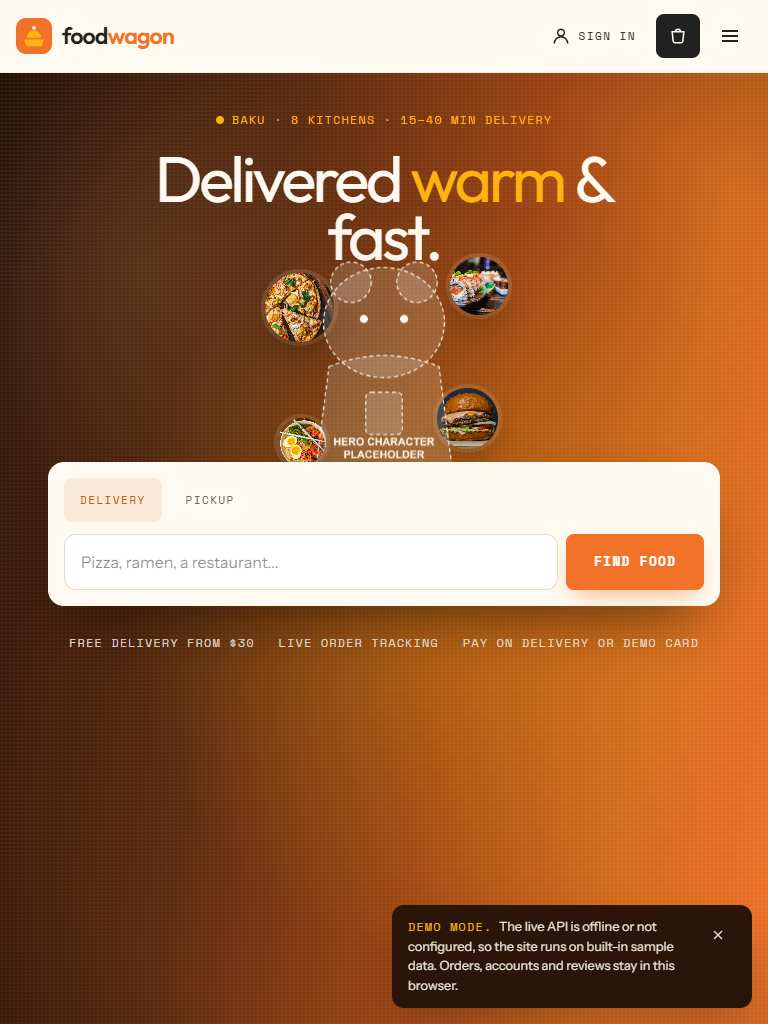
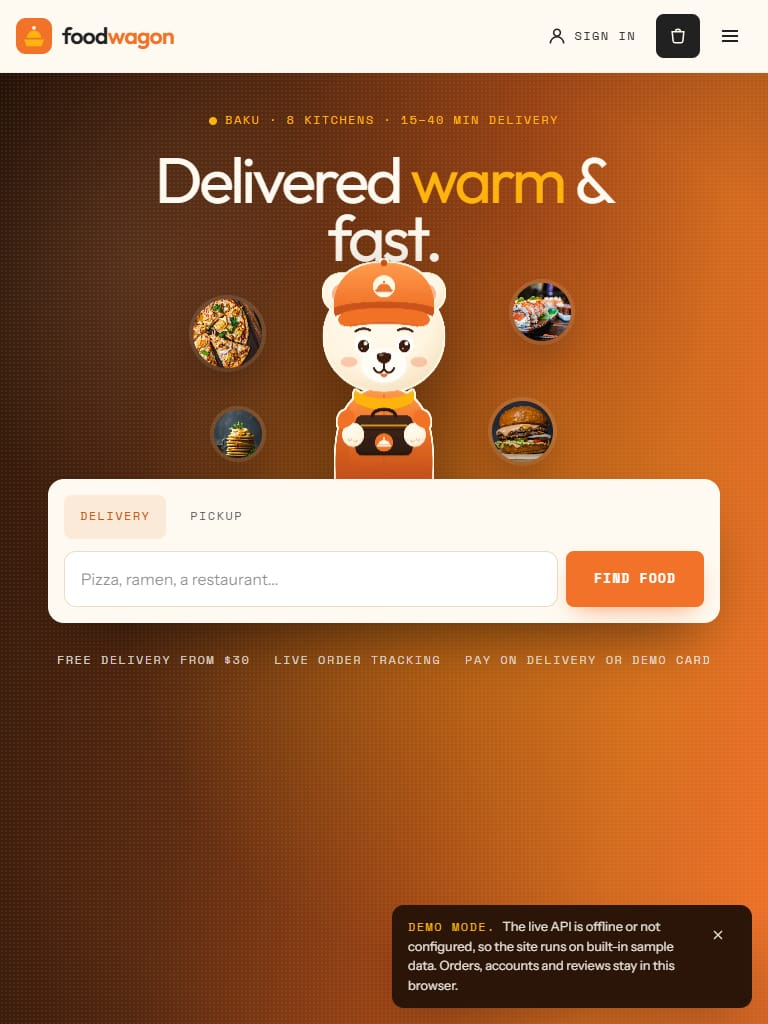
Hero: Food Wagon's courier bear replaces the stand-in image
- Original mascot (cream bear, orange cap and jacket with the dome badge, dark
  delivery bag), drawn as SVG in tools/hero-mascot.cjs and rendered to
  hero/character.webp (still, 1200x1500) and hero/character-sprite.webp
  (9 frames, 800x1000 each, gaze left to right).
- The still stays the image in the static copy of the hero, so it is the first
  paint and what shows without JavaScript, on touch-only screens and under
  prefers-reduced-motion. The sprite sheet is fetched after mount and laid over
  the still once decoded: no layout shift, no flash.
- Cream rim around the silhouette keeps the orange cap and jacket apart from
  the orange side of the backdrop. Only the head moves between frames.
- Stage resized and moved below the headline; the whole bag stays above the
  search card, which now hides plain jacket only. Food chips moved outward and
  their drift scales with the viewport so they never cover the face.
- README, CREDITS, hero screenshots and og-image regenerated.

Admin panel: checked, it already uses the site palette (cream background,
white cards, orange primary); no change.

diff --git a/frontend/index.html b/frontend/index.html
@@ -76,7 +76,7 @@
 
     <main id="main">
       <!-- Static copy of <Hero /> (src/components/site/hero.tsx): first paint already matches the React render, so nothing shifts when it mounts. Keep in sync. -->
-      <div id="hero-root"><section class="hero" aria-labelledby="hero-title" data-state="idle"><div class="hero__bg" aria-hidden="true"></div><div class="hero__grain" aria-hidden="true"></div><div class="container-x relative flex flex-col items-center pt-[clamp(28px,5vw,64px)] pb-[clamp(40px,5vw,72px)] text-center"><p class="mono flex items-center gap-2 text-secondary"><span class="inline-block size-2 rounded-full bg-secondary" aria-hidden="true"></span>Baku · 8 kitchens · 15–40 min delivery</p><h1 id="hero-title" class="display hero__title relative z-0 mt-5 max-w-[7.87em]"><span class="sr-only">Food Wagon, food delivery in Baku: </span>Delivered <em>warm</em> &amp; fast.</h1><div class="hero__stage relative z-10 -mt-[clamp(20px,4vw,72px)] w-[clamp(220px,25vw,400px)]"><span class="hero__chip hidden sm:block left-[-4%] top-[14%] size-[clamp(64px,9vw,132px)]" aria-hidden="true" style="--d: 46;"><img alt="" width="132" height="132" loading="eager" src="images/pizza.webp"></span><span class="hero__chip hidden sm:block right-[-6%] top-[8%] size-[clamp(56px,7.5vw,112px)]" aria-hidden="true" style="--d: 64;"><img alt="" width="132" height="132" loading="eager" src="images/sushi.webp"></span><span class="hero__chip hidden sm:block right-[-2%] bottom-[22%] size-[clamp(60px,8vw,120px)]" aria-hidden="true" style="--d: 30;"><img alt="" width="132" height="132" loading="eager" src="images/burger.webp"></span><span class="hero__chip hidden sm:block left-[2%] bottom-[16%] size-[clamp(48px,6vw,92px)]" aria-hidden="true" style="--d: 82;"><img alt="" width="132" height="132" loading="eager" src="images/pancakes.webp"></span><div class="hero__float"><div class="hero__character aspect-[4/5]"><img alt="A steaming bowl of shrimp ramen, ready for delivery" width="1200" height="1500" fetchpriority="high" class="size-full object-contain" src="hero/character.webp"></div></div></div><form action="restaurants.html" role="search" aria-label="Find food" class="relative z-20 -mt-[clamp(48px,6vw,96px)] w-full max-w-2xl rounded-2xl bg-background p-3 text-left text-foreground shadow-[0_30px_60px_-24px_rgba(20,8,2,.65)] sm:p-4"><div class="mb-3 flex gap-2" role="group" aria-label="Order type"><button type="button" aria-pressed="true" class="mono min-h-11 rounded-lg px-4 text-[0.75rem] transition-colors bg-primary/12 text-primary-strong">Delivery</button><button type="button" aria-pressed="false" class="mono min-h-11 rounded-lg px-4 text-[0.75rem] transition-colors text-muted-foreground hover:bg-foreground/5">Pickup</button></div><div class="flex flex-col gap-2 sm:flex-row"><label for="hero-q" class="sr-only">What are you craving?</label><input id="hero-q" name="q" placeholder="Pizza, ramen, a restaurant..." autocomplete="off" class="min-h-14 flex-1 rounded-xl border border-border bg-card px-4 text-base focus:border-primary focus:outline-none" type="search" value=""><button type="submit" class="inline-flex items-center justify-center gap-2 rounded-lg font-mono font-bold uppercase tracking-[0.1em] whitespace-nowrap no-underline transition-[background,color,border-color,transform,box-shadow] duration-300 ease-[var(--ease-expo)] active:translate-y-px disabled:pointer-events-none disabled:opacity-50 cursor-pointer bg-primary text-white hover:bg-primary-strong shadow-[0_10px_24px_-10px_rgba(241,114,40,.7)] min-h-14 px-7 text-[0.8rem]">Find food</button></div></form><ul class="mono mt-7 flex flex-wrap justify-center gap-x-6 gap-y-2 text-background/85"><li>Free delivery from $30</li><li>Live order tracking</li><li>Pay on delivery or demo card</li></ul></div></section></div>
+      <div id="hero-root"><section class="hero" aria-labelledby="hero-title" data-state="idle"><div class="hero__bg" aria-hidden="true"></div><div class="hero__grain" aria-hidden="true"></div><div class="container-x relative flex flex-col items-center pt-[clamp(28px,5vw,64px)] pb-[clamp(40px,5vw,72px)] text-center"><p class="mono flex items-center gap-2 text-secondary"><span class="inline-block size-2 rounded-full bg-secondary" aria-hidden="true"></span>Baku · 8 kitchens · 15–40 min delivery</p><h1 id="hero-title" class="display hero__title relative z-0 mt-5 max-w-[7.87em]"><span class="sr-only">Food Wagon, food delivery in Baku: </span>Delivered <em>warm</em> &amp; fast.</h1><div class="hero__stage relative z-10 -mt-[clamp(2px,0.6vw,8px)] w-[clamp(212px,22.5vw,380px)]"><span class="hero__chip hidden sm:block left-[-40%] top-[14%] size-[clamp(64px,9vw,132px)]" aria-hidden="true" style="--d: 46;"><img alt="" width="132" height="132" loading="eager" src="images/pizza.webp"></span><span class="hero__chip hidden sm:block right-[-38%] top-[8%] size-[clamp(56px,7.5vw,112px)]" aria-hidden="true" style="--d: 64;"><img alt="" width="132" height="132" loading="eager" src="images/sushi.webp"></span><span class="hero__chip hidden sm:block right-[-30%] bottom-[24%] size-[clamp(60px,8vw,120px)]" aria-hidden="true" style="--d: 30;"><img alt="" width="132" height="132" loading="eager" src="images/burger.webp"></span><span class="hero__chip hidden sm:block left-[-30%] bottom-[26%] size-[clamp(48px,6vw,92px)]" aria-hidden="true" style="--d: 82;"><img alt="" width="132" height="132" loading="eager" src="images/pancakes.webp"></span><div class="hero__float"><div class="hero__character aspect-[4/5]"><img alt="Food Wagon&#x27;s courier bear holding a delivery bag" width="1200" height="1500" fetchpriority="high" class="size-full object-contain" src="hero/character.webp"></div></div></div><form action="restaurants.html" role="search" aria-label="Find food" class="relative z-20 -mt-[clamp(48px,6vw,96px)] w-full max-w-2xl rounded-2xl bg-background p-3 text-left text-foreground shadow-[0_30px_60px_-24px_rgba(20,8,2,.65)] sm:p-4"><div class="mb-3 flex gap-2" role="group" aria-label="Order type"><button type="button" aria-pressed="true" class="mono min-h-11 rounded-lg px-4 text-[0.75rem] transition-colors bg-primary/12 text-primary-strong">Delivery</button><button type="button" aria-pressed="false" class="mono min-h-11 rounded-lg px-4 text-[0.75rem] transition-colors text-muted-foreground hover:bg-foreground/5">Pickup</button></div><div class="flex flex-col gap-2 sm:flex-row"><label for="hero-q" class="sr-only">What are you craving?</label><input id="hero-q" name="q" placeholder="Pizza, ramen, a restaurant..." autocomplete="off" class="min-h-14 flex-1 rounded-xl border border-border bg-card px-4 text-base focus:border-primary focus:outline-none" type="search" value=""><button type="submit" class="inline-flex items-center justify-center gap-2 rounded-lg font-mono font-bold uppercase tracking-[0.1em] whitespace-nowrap no-underline transition-[background,color,border-color,transform,box-shadow] duration-300 ease-[var(--ease-expo)] active:translate-y-px disabled:pointer-events-none disabled:opacity-50 cursor-pointer bg-primary text-white hover:bg-primary-strong shadow-[0_10px_24px_-10px_rgba(241,114,40,.7)] min-h-14 px-7 text-[0.8rem]">Find food</button></div></form><ul class="mono mt-7 flex flex-wrap justify-center gap-x-6 gap-y-2 text-background/85"><li>Free delivery from $30</li><li>Live order tracking</li><li>Pay on delivery or demo card</li></ul></div></section></div>
 
       <section id="how" class="section dots" aria-labelledby="how-title">
         <div class="container-x">

diff --git a/frontend/src/components/site/hero.tsx b/frontend/src/components/site/hero.tsx
@@ -10,20 +10,25 @@ import { Button } from "@/components/ui/button";
  * headline and food chips drift at different depths and the light follows. Movement is eased every
  * frame and returns to the idle pose when the pointer leaves. If a sprite sheet of the animated
  * character exists (frames side by side, gaze from far left to far right), set SPRITE.frames and the
- * cursor scrubs through the frames instead of only tilting the still image.
- * prefers-reduced-motion: everything stays still.
+ * cursor scrubs through the frames, so the character's eyes follow the pointer.
+ * prefers-reduced-motion: everything stays still and only the still image is shown.
  */
-// Swappable hero slot: replace public/hero/character.webp with the final character (same 1200 x 1500 transparent
-// WebP, so the reserved 4:5 box and the preload in index.html keep working) and update the alt text here.
-// Until then the slot shows a steaming ramen bowl so the hero looks finished.
-export const CHARACTER = { src: "hero/character.webp", width: 1200, height: 1500, alt: "A steaming bowl of shrimp ramen, ready for delivery" };
-export const SPRITE = { src: "hero/character-sprite.webp", frames: 0 }; // 0 = no sprite sheet yet
+// Hero character: Food Wagon's courier bear, an original drawing generated by tools/hero-mascot.cjs (see docs/CREDITS.md).
+// character.webp is the still (1200 x 1500, transparent, looking straight ahead). It is the image in the static copy of
+// the hero in index.html (preloaded there), so it is what paints first, what shows without JavaScript, on touch-only
+// screens and under prefers-reduced-motion. The sprite sheet (SPRITE.frames frames side by side, gaze far left -> far
+// right, middle frame = the still) is fetched after mount and laid over the still once it has decoded, so the swap is
+// invisible and nothing shifts. To change the character, re-run the generator and keep both files the same size;
+// if the alt text changes, change it in index.html too.
+export const CHARACTER = { src: "hero/character.webp", width: 1200, height: 1500, alt: "Food Wagon's courier bear holding a delivery bag" };
+export const SPRITE = { src: "hero/character-sprite.webp", frames: 9 }; // 0 = no sprite sheet, still image only
+const MID = SPRITE.frames > 1 ? Math.floor(SPRITE.frames / 2) / (SPRITE.frames - 1) : 0;
 
 const CHIPS = [
-  { src: "images/pizza.webp", alt: "", cls: "left-[-4%] top-[14%] size-[clamp(64px,9vw,132px)]", d: 46 },
-  { src: "images/sushi.webp", alt: "", cls: "right-[-6%] top-[8%] size-[clamp(56px,7.5vw,112px)]", d: 64 },
-  { src: "images/burger.webp", alt: "", cls: "right-[-2%] bottom-[22%] size-[clamp(60px,8vw,120px)]", d: 30 },
-  { src: "images/pancakes.webp", alt: "", cls: "left-[2%] bottom-[16%] size-[clamp(48px,6vw,92px)]", d: 82 },
+  { src: "images/pizza.webp", alt: "", cls: "left-[-40%] top-[14%] size-[clamp(64px,9vw,132px)]", d: 46 },
+  { src: "images/sushi.webp", alt: "", cls: "right-[-38%] top-[8%] size-[clamp(56px,7.5vw,112px)]", d: 64 },
+  { src: "images/burger.webp", alt: "", cls: "right-[-30%] bottom-[24%] size-[clamp(60px,8vw,120px)]", d: 30 },
+  { src: "images/pancakes.webp", alt: "", cls: "left-[-30%] bottom-[26%] size-[clamp(48px,6vw,92px)]", d: 82 },
 ];
 
 const clamp = (v: number) => Math.max(-1, Math.min(1, v));
@@ -33,6 +38,7 @@ export function Hero() {
   const spriteRef = useRef<HTMLDivElement>(null);
   const [mode, setMode] = useState<"delivery" | "pickup">("delivery");
   const [q, setQ] = useState("");
+  const [sprite, setSprite] = useState(false); // true once the sprite sheet has loaded and decoded
 
   useEffect(() => {
     const el = ref.current;
@@ -45,6 +51,13 @@ export function Hero() {
     let tx = 0, ty = 0, x = 0, y = 0, raf = 0;
     let idle: ReturnType<typeof setTimeout> | undefined;
     const frames = SPRITE.frames;
+    let alive = true;
+    // The sheet only matters where a pointer can hover; phones keep the lighter still image.
+    if (frames > 1 && window.matchMedia("(hover: hover) and (pointer: fine)").matches) {
+      const img = new Image();
+      img.src = SPRITE.src;
+      img.decode().then(() => alive && setSprite(true)).catch(() => {});
+    }
 
     const tick = () => {
       x += (tx - x) * 0.085;
@@ -82,6 +95,7 @@ export function Hero() {
     const onReduce = () => reduce.matches && settle();
     reduce.addEventListener("change", onReduce);
     return () => {
+      alive = false;
       cancelAnimationFrame(raf);
       clearTimeout(idle);
       el.removeEventListener("pointermove", onMove);
@@ -115,32 +129,30 @@ export function Hero() {
           Delivered <em>warm</em> &amp; fast.
         </h1>
 
-        <div className="hero__stage relative z-10 -mt-[clamp(20px,4vw,72px)] w-[clamp(220px,25vw,400px)]">
+        <div className="hero__stage relative z-10 -mt-[clamp(2px,0.6vw,8px)] w-[clamp(212px,22.5vw,380px)]">
           {CHIPS.map((c) => (
             <span key={c.src} className={cn("hero__chip hidden sm:block", c.cls)} style={{ ["--d" as string]: c.d }} aria-hidden="true">
               <img src={c.src} alt={c.alt} width={132} height={132} loading="eager" />
             </span>
           ))}
           <div className="hero__float">
-            <div className="hero__character aspect-[4/5]">
-              {SPRITE.frames > 1 ? (
+            <div className="hero__character aspect-[4/5]" data-sprite={sprite ? "" : undefined}>
+              <img
+                src={CHARACTER.src}
+                alt={CHARACTER.alt}
+                width={CHARACTER.width}
+                height={CHARACTER.height}
+                fetchPriority="high"
+                className="size-full object-contain"
+              />
+              {sprite ? (
                 <div
                   ref={spriteRef}
-                  role="img"
-                  aria-label={CHARACTER.alt}
+                  aria-hidden="true"
                   className="hero__sprite"
-                  style={{ backgroundImage: `url(${SPRITE.src})`, backgroundSize: `${SPRITE.frames * 100}% 100%` }}
+                  style={{ backgroundImage: `url(${SPRITE.src})`, backgroundSize: `${SPRITE.frames * 100}% 100%`, backgroundPosition: `${MID * 100}% 0` }}
                 />
-              ) : (
-                <img
-                  src={CHARACTER.src}
-                  alt={CHARACTER.alt}
-                  width={CHARACTER.width}
-                  height={CHARACTER.height}
-                  fetchPriority="high"
-                  className="size-full object-contain"
-                />
-              )}
+              ) : null}
             </div>
           </div>
         </div>

diff --git a/frontend/src/styles/globals.css b/frontend/src/styles/globals.css
@@ -126,14 +126,18 @@
   will-change: transform;
 }
 .hero__character img, .hero__sprite { filter: drop-shadow(0 30px 40px rgba(20, 8, 2, 0.45)); }
-.hero__sprite { width: 100%; height: 100%; background-repeat: no-repeat; background-size: auto 100%; }
+/* The sprite sheet lies exactly over the still image (same 4:5 box) and replaces it once it has decoded. */
+.hero__sprite { position: absolute; inset: 0; background-repeat: no-repeat; background-size: auto 100%; }
+.hero__character[data-sprite] img { opacity: 0; }
 .hero[data-state="idle"] .hero__float { animation: hero-float 6s var(--ease-expo) infinite alternate; }
 @keyframes hero-float { from { transform: translateY(0); } to { transform: translateY(-10px); } }
 
 .hero__chip {
   position: absolute; z-index: 1; border-radius: 999px; overflow: hidden;
   box-shadow: 0 18px 40px -12px rgba(20, 8, 2, 0.55), 0 0 0 4px rgba(255, 248, 230, 0.12);
-  transform: translate3d(calc(var(--mx) * var(--d) * 1px), calc(var(--my) * var(--d) * 1px), 0);
+  /* drift scales with the viewport (1px per unit from 1440 up), so on narrow screens a chip never slides over the character */
+  --u: clamp(0.5px, 0.07vw, 1px);
+  transform: translate3d(calc(var(--mx) * var(--d) * var(--u)), calc(var(--my) * var(--d) * var(--u)), 0);
   will-change: transform;
 }
 .hero__chip img { width: 100%; height: 100%; object-fit: cover; display: block; }

diff --git a/docs/CREDITS.md b/docs/CREDITS.md
@@ -31,15 +31,21 @@ Food Wagon is a portfolio / demo project. Restaurants, chefs, prices, ratings an
 - `frontend/public/images/cutouts/*.webp` are circular, transparent crops of the plates above and of `ramen.webp` /
   `salad.webp`, made for the orbit menu.
 
-## Hero slot (to be swapped for the final character)
+## Hero character
 
-- `frontend/public/hero/character.webp` – interim hero image: the steaming shrimp ramen bowl from
-  `images/cutouts/ramen.webp` with soft steam, on a transparent 1200 × 1500 px WebP. Replace it with the final
-  character at the same size and update `CHARACTER.alt` in `frontend/src/components/site/hero.tsx`; the static copy of
-  the hero in `frontend/index.html` uses the same file and alt text. Optional: `frontend/public/hero/character-sprite.webp`, a horizontal sprite
-  sheet of the animated character (frames side by side, gaze from far left to far right); set `SPRITE.frames` in
-  `frontend/src/components/site/hero.tsx` to the frame count to switch the hero to frame scrubbing.
-- `frontend/public/og-image.jpg` – social preview (1200 × 630) made from the hero with the interim image; take a new one after the final character is in.
+- The courier bear (cream fur, orange cap and jacket with the dome badge, dark delivery bag) is an original drawing
+  made for this project. It is written as SVG in `tools/hero-mascot.cjs` and rendered with
+  [sharp](https://sharp.pixelplumbing.com/) (Apache-2.0); no third-party artwork is used.
+- `frontend/public/hero/character.webp` – the still: 1200 × 1500 px, transparent, looking straight ahead. It is the
+  image in the static copy of the hero in `frontend/index.html` (first paint, no JavaScript) and the only image on
+  touch-only screens and under `prefers-reduced-motion`.
+- `frontend/public/hero/character-sprite.webp` – 9 frames side by side (800 × 1000 px each), gaze from far left to
+  far right, middle frame identical to the still. `SPRITE.frames` in `frontend/src/components/site/hero.tsx` must
+  match the frame count.
+- To redraw or re-render: `npm install --no-save sharp`, then `node tools/hero-mascot.cjs` from the repo root (it
+  writes both files into `frontend/public/hero/`). If the alt text changes, change `CHARACTER.alt` and the static
+  copy in `frontend/index.html` together.
+- `frontend/public/og-image.jpg` – social preview (1200 × 630), a screenshot of the hero with the bear.
 
 ## Code libraries
 

diff --git a/README.md b/README.md
@@ -17,7 +17,7 @@ orders and promo codes. It started as a Figma practice page and was rebuilt in 2
 
 | Area | Details |
 | --- | --- |
-| Interactive hero | Character cut-out over a CSS backdrop (deep coffee brown → caramel orange, vignette, ambient light). The pointer tilts the character, moves the headline and food chips at different depths and moves the light; eased every frame, back to idle when the pointer leaves. Sprite-sheet scrubbing is built in (`SPRITE.frames`). Still under `prefers-reduced-motion`. |
+| Interactive hero | Food Wagon's courier bear (an original drawing, generated by `tools/hero-mascot.cjs`) over a CSS backdrop (deep coffee brown → caramel orange, vignette, ambient light). The pointer tilts the bear and scrubs a 9-frame sprite sheet so its eyes follow the cursor, moves the headline and food chips at different depths and moves the light; eased every frame, back to idle when the pointer leaves. The still image is what paints first and what shows without JavaScript, on touch-only screens and under `prefers-reduced-motion`. |
 | "Most loved" orbit menu | Owner-supplied `DishOrbitCarousel` (GSAP ScrollTrigger): scroll-pinned plates swing on an orbit. Data from `GET /api/dishes?featured=true`, "Order food" adds to cart, likes go to `POST /api/dishes/:slug/like`. Page scroll never loops; reduced motion shows a plain list. |
 | Search and filters | Text search (restaurant, cuisine or dish name), cuisine, price level, minimum rating, maximum delivery time, open now (Baku time), deals, six sort orders. Filters live in the URL. |
 | Restaurant page | Menu by category, opening hours, fees, reviews, rating form, favourite button, Restaurant + Menu JSON-LD. |
@@ -40,6 +40,7 @@ backend/shared/catalog.mjs   business rules shared by the API and the demo fallb
 backend/data/seed.json       demo data (8 restaurants, 36 dishes, promos, reviews)
 render.yaml                  Render blueprint for the API
 .github/workflows/pages.yml  builds frontend/ to GitHub Pages and runs the API tests
+tools/hero-mascot.cjs        draws the hero character (SVG) and renders the still + sprite sheet, see docs/CREDITS.md
 docs/screenshots/            1920 / 1440 / 768 / 390 screenshots of every page and hero states
 ```
 
